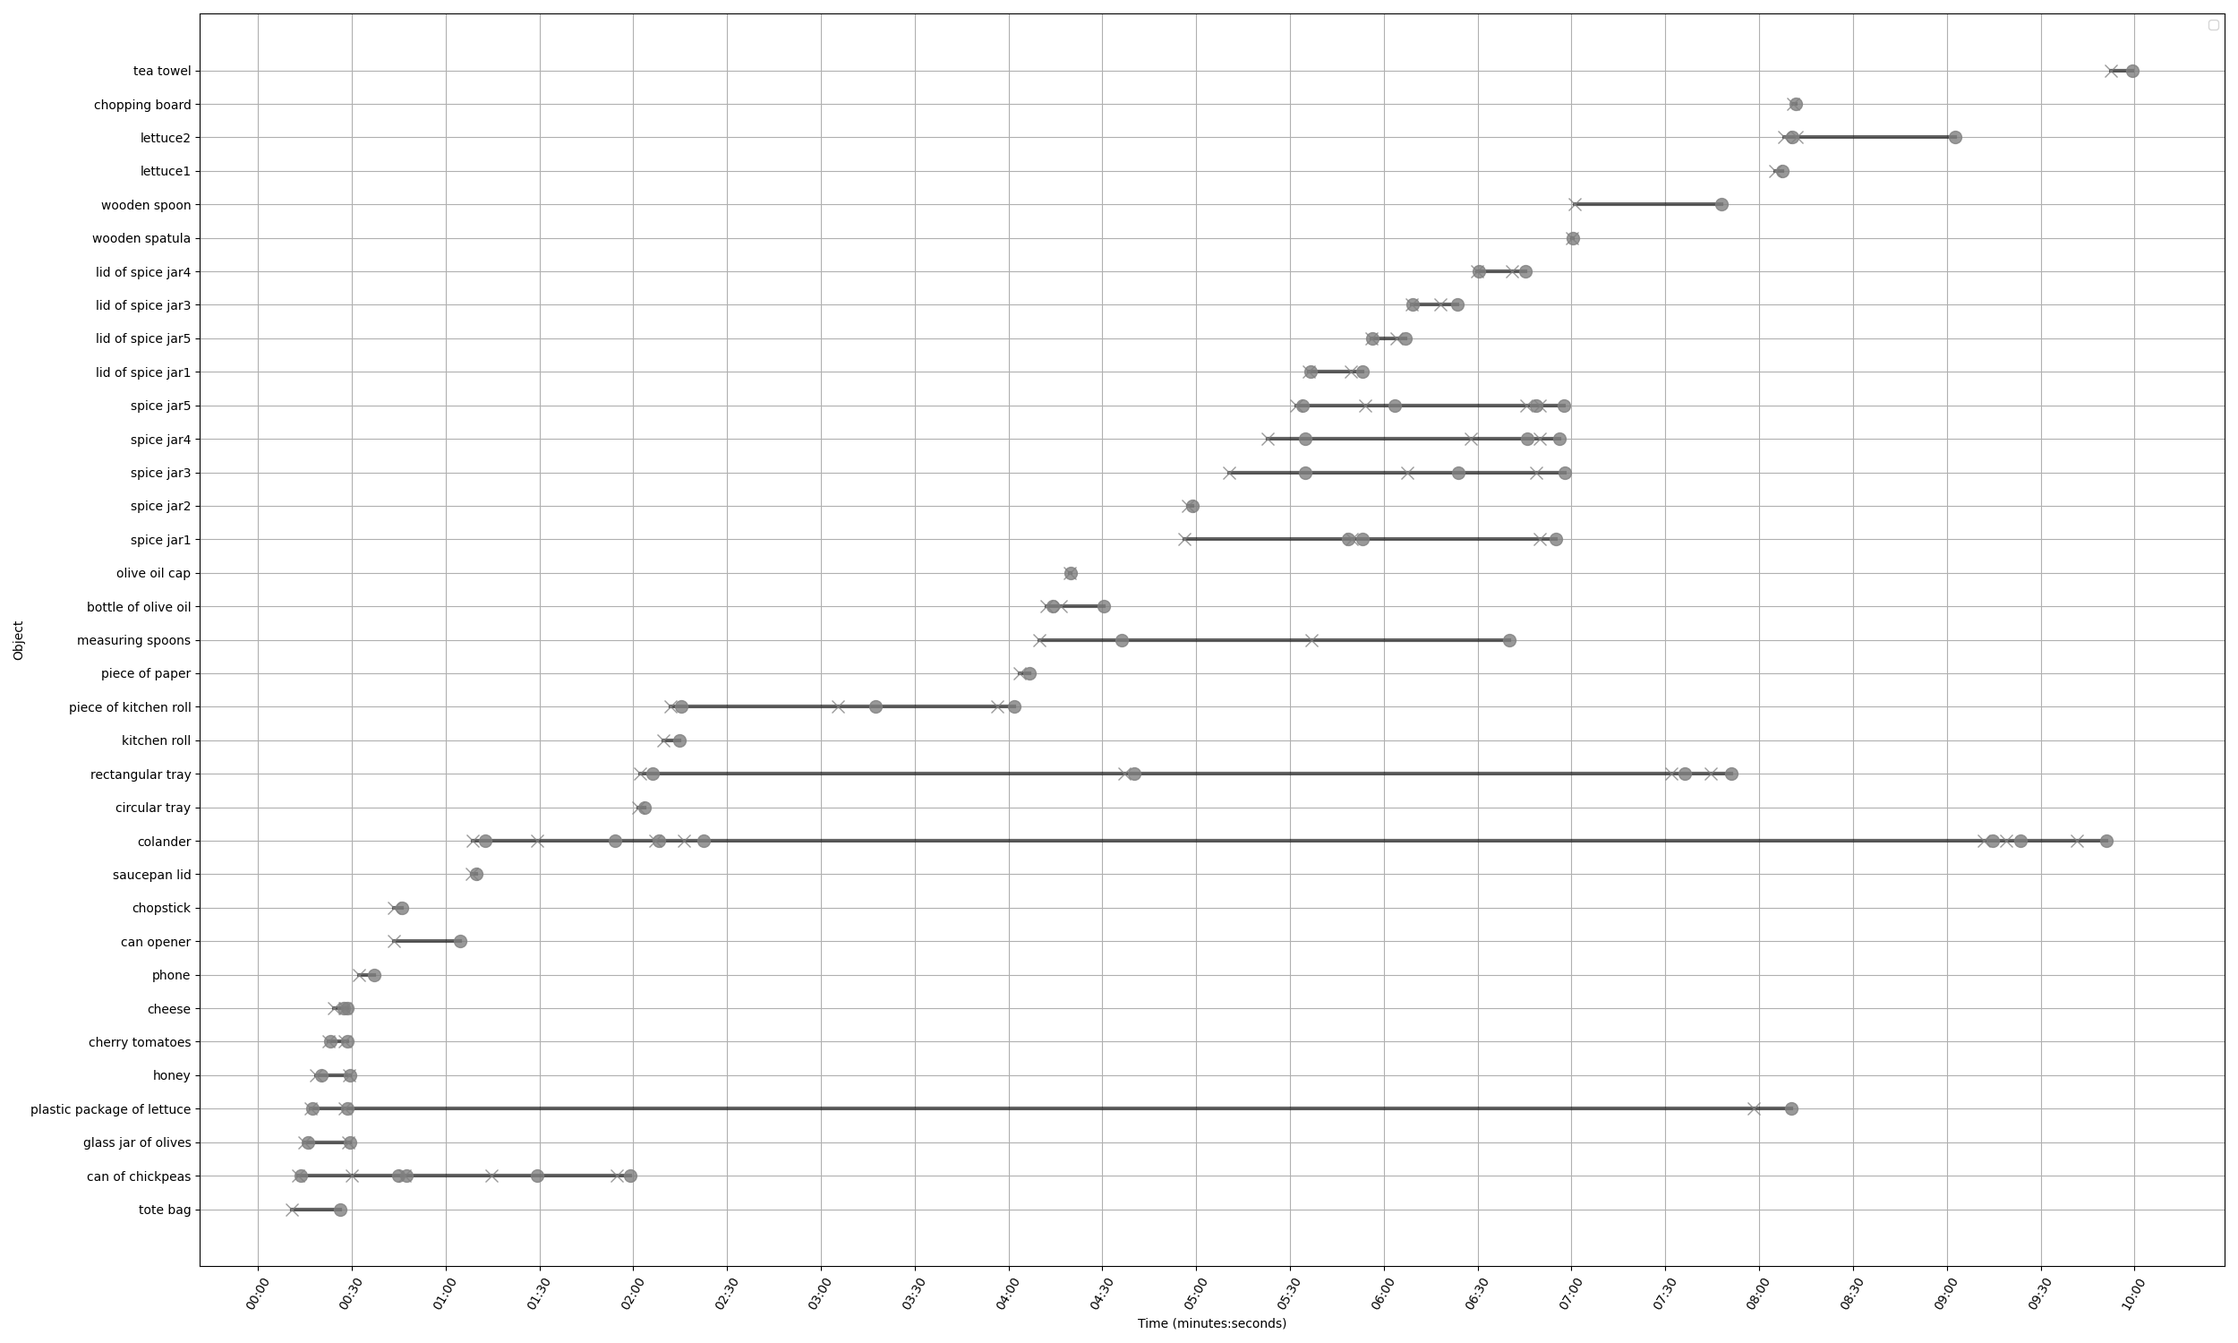
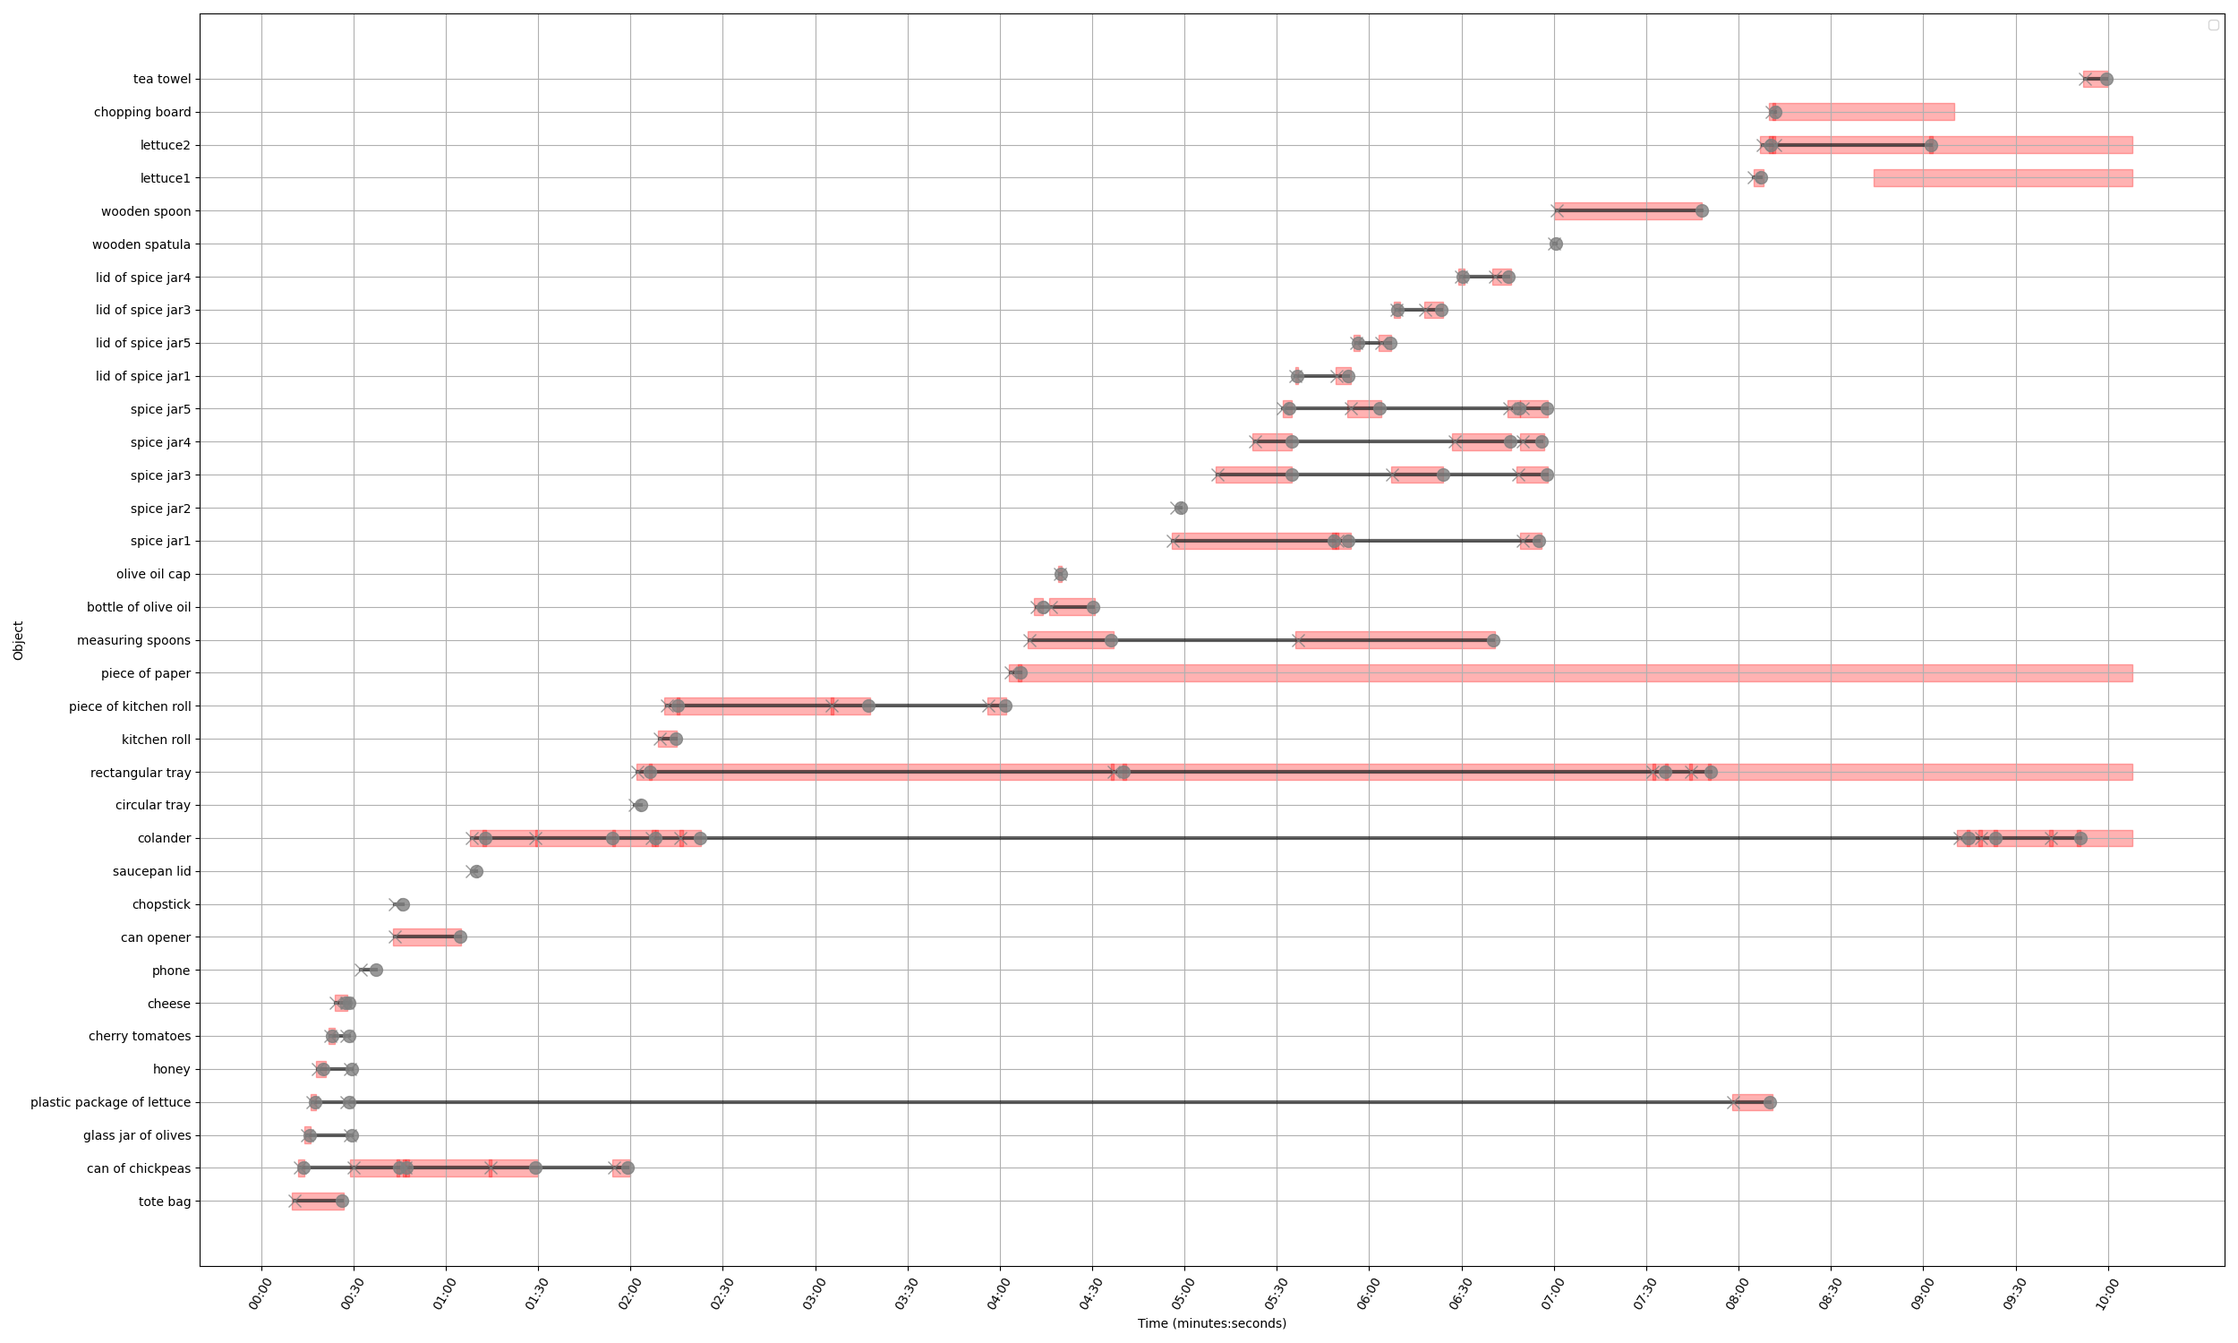
fix manual labeling, plot manual labels, script to save image filepaths and action narrations for annotation

diff --git a/save_user_prompts.py b/save_user_prompts.py
@@ -5,12 +5,15 @@ This is useful for generating new examples for the prompt system.
 """
 
 import os
-import sys
+import cv2
+import numpy as np
 import json
 import argparse
-sys.path.append(os.path.dirname(os.path.dirname(os.path.abspath(__file__))))
+import pickle as pkl
 from prompt_utils import generate_prompts_for_video, normalize_text, format_event_history, seconds_to_minutes_seconds
+import pandas as pd
 import pdb
+from math import floor, ceil
 
 
 def generate_user_prompt(entry, show_empty: bool = False):
@@ -56,6 +59,8 @@ def main():
                         help='Video ID to process (e.g., P01-20240202-171220)')
     parser.add_argument('--max_segment_length', type=int, default=120,
                         help='Maximum segment length in seconds (default: 120)')
+    parser.add_argument('--video_path', type=str, default=None,
+                        help='Path to the video file (default: None)')
     parser.add_argument('--long', action='store_true',
                         help='Use long mode prompts (with full scene graph)')
     parser.add_argument('--output_file', type=str, default=None,
@@ -71,17 +76,39 @@ def main():
     prompt_info_path = f"outputs/prompts/prompt_info_{args.video_id}_max_segment_length_{args.max_segment_length}{long_suffix}.json"
     generate_prompts_for_video(args.video_id, args.max_segment_length, long=args.long)
     print(f"Generated prompts saved to: {prompt_info_path}")
-    
+
+    # Load narrations
+    print("Loading narrations...")
+    with open("narrations-and-action-segments/HD_EPIC_Narrations.pkl", "rb") as f:
+        narrations_df = pkl.load(f)
+
     # Load prompt info
     with open(prompt_info_path, 'r', encoding='utf-8') as f:
         prompt_info = json.load(f)
+
+    ## Load video
+    cap = cv2.VideoCapture(args.video_path)
+    if not cap.isOpened():
+        raise ValueError(f"Could not open video: {args.video_path}")
+    
+    # Get video properties
+    fps = cap.get(cv2.CAP_PROP_FPS)
+    total_frames = int(cap.get(cv2.CAP_PROP_FRAME_COUNT))
     
     print(f"Found {len(prompt_info)} entries to process")
     
     show_empty = True if args.long else False
 
+    # Filter narrations for this video
+    video_narrations = narrations_df[
+        narrations_df['unique_narration_id'].str.startswith(args.video_id)
+    ].copy()
+
+    images_dir = os.path.join("images", args.video_id)
+
     # Generate all user prompts
     all_prompts = []
+    all_frame_nums = []
     for idx, entry in enumerate(prompt_info):
         object_name = entry['object_name']
         time_start = entry['time_start']
@@ -89,42 +116,81 @@ def main():
         segment_category = entry['segment_category']
         
         print(f"Processing entry {idx + 1}/{len(prompt_info)}: {object_name} ({time_start:.2f}s - {time_end:.2f}s) [{segment_category}]")
-        pdb.set_trace()
+        action_narrations = []
+        for _, row in video_narrations.iterrows():
+            start_ts = float(row['start_timestamp'])
+            end_ts = float(row['end_timestamp'])
+            
+            if not (start_ts > time_end or end_ts < time_start):
+                action_narrations.append({
+                    'narration': row['narration'] if pd.notna(row['narration']) else '',
+                    'start_timestamp': start_ts,
+                    'end_timestamp': end_ts
+                })
 
-        user_prompt = generate_user_prompt(entry, show_empty=show_empty)
-        
+        ## Sample images between time_start and time_end every 5 seconds
+        image_filepaths = []
+        num_samples = max(2, (ceil(time_end) - floor(time_start)) // 5)
+        image_time_steps = np.linspace(time_start, time_end, num_samples)
+        for image_time_step in image_time_steps:
+            frame_num = int(image_time_step * fps)
+            if frame_num not in all_frame_nums:
+                all_frame_nums.append(frame_num)
+            image_filepath = f"{images_dir}/image_{frame_num:06d}.png"
+            image_filepaths.append(image_filepath)
+
         prompt_entry = {
             "object_name": object_name,
             "time_start": time_start,
             "time_end": time_end,
             "segment_category": segment_category,
-            "prompt": user_prompt
+            "image_filepaths": image_filepaths,
+            "action_narrations": action_narrations,
         }
         
         all_prompts.append(prompt_entry)
-    
-    # Determine output file path
-    if args.output_file:
-        output_file = args.output_file
-    else:
-        output_dir = "outputs/prompts"
-        os.makedirs(output_dir, exist_ok=True)
-        output_file = os.path.join(output_dir, f"user_prompts_{args.video_id}_max_segment_length_{args.max_segment_length}{long_suffix}.jsonl")
 
-    # Write all the prompts in a text file
-    text_output_file = output_file.rsplit('.', 1)[0] + ".txt"
-    with open(text_output_file, 'w', encoding='utf-8') as text_f:
-        for prompt in all_prompts:
-            text_f.write(f"{prompt['object_name']} ({prompt['time_start']:.2f}s - {prompt['time_end']:.2f}s) [{prompt['segment_category']}]\n<{prompt['prompt']}>\n\n")
-    print(f"Also saved plain text prompts to {text_output_file}")
+    with open(f"outputs/prompts/prompt_dict{args.video_id}_max_segment_length_{args.max_segment_length}{long_suffix}.json", "w") as f:
+        json.dump(all_prompts, f, indent=1)
+
+    # Save all sampled frames in all_frame_nums in the images folder, resized to 360x480
+    os.makedirs(images_dir, exist_ok=True)
+    for frame_num in sorted(set(all_frame_nums)):
+        cap.set(cv2.CAP_PROP_POS_FRAMES, frame_num)
+        ret, frame = cap.read()
+        if not ret:
+            print(f"Warning: Could not read frame {frame_num} from video.")
+            continue
+        # Resize to 360x480 (width x height). OpenCV uses (width, height)
+        resized = cv2.resize(frame, (360, 480))
+        img_path = os.path.join(images_dir, f"image_{frame_num:06d}.png")
+        cv2.imwrite(img_path, resized)
     
-    # Save all prompts
-    print(f"\nSaving {len(all_prompts)} prompts to: {output_file}")
-    with open(output_file, 'w', encoding='utf-8') as f:
-        for prompt in all_prompts:
-            f.write(json.dumps(prompt, ensure_ascii=False) + "\n")
+    cap.release()
+    print(f"Saved {len(set(all_frame_nums))} frames (resized) to {images_dir}")
+
+    # # Determine output file path
+    # if args.output_file:
+    #     output_file = args.output_file
+    # else:
+    #     output_dir = "outputs/prompts"
+    #     os.makedirs(output_dir, exist_ok=True)
+    #     output_file = os.path.join(output_dir, f"user_prompts_{args.video_id}_max_segment_length_{args.max_segment_length}{long_suffix}.jsonl")
+
+    # # Write all the prompts in a text file
+    # text_output_file = output_file.rsplit('.', 1)[0] + ".txt"
+    # with open(text_output_file, 'w', encoding='utf-8') as text_f:
+    #     for prompt in all_prompts:
+    #         text_f.write(f"{prompt['object_name']} ({prompt['time_start']:.2f}s - {prompt['time_end']:.2f}s) [{prompt['segment_category']}]\n<{prompt['prompt']}>\n\n")
+    # print(f"Also saved plain text prompts to {text_output_file}")
     
-    print(f"Successfully saved all prompts to {output_file}")
+    # # Save all prompts
+    # print(f"\nSaving {len(all_prompts)} prompts to: {output_file}")
+    # with open(output_file, 'w', encoding='utf-8') as f:
+    #     for prompt in all_prompts:
+    #         f.write(json.dumps(prompt, ensure_ascii=False) + "\n")
+    
+    # print(f"Successfully saved all prompts to {output_file}")
 
 
 if __name__ == "__main__":

diff --git a/process_all_object_labels.py b/process_all_object_labels.py
@@ -1,4 +1,5 @@
 import os
+import glob
 import json
 import pickle
 import matplotlib.pyplot as plt
@@ -47,74 +48,17 @@ def plot_object_usage_segments(object_labels_array, axis, all_object_labels):
     for object_label in object_labels_array:
         if object_label["object_name"] not in all_object_labels:
             continue
-        if object_label.get("is_used") is None:
-            print(f"WARNING: Object {object_label['object_name']} has invalid usage label between {object_label['time_start']} and {object_label['time_end']}")
-            # pdb.set_trace()
-            continue
-        elif object_label["is_used"] == False: ## Skip if object was not used
-            continue
         y_position = all_object_labels.index(object_label["object_name"])
-        verbose_print(f"Object {object_label['object_name']} used between {object_label['time_start']} and {object_label['time_end']}")
-        axis.fill_betweenx(
-            [y_position - BAR_WIDTH/2, y_position + BAR_WIDTH/2],
-            object_label["time_start"],
-            object_label["time_end"],
-            color="red",
-            alpha=0.3,
-        )
-
-
-def combine_object_labels_from_usage_labels(object_usage_labels: [dict], scene_graphs: [dict], mask_fixtures: dict) -> dict:
-    """
-    Process object_usage_labels jsonl entries to create object_labels_array.
-    Includes all entries regardless of is_used status.
-    Uses scene graphs instead of event_history to extract mask_frame_ids.
-    """
-    object_labels_array = []
-    
-    for i, usage_label in enumerate(object_usage_labels):
-        if i % 10 == 0:
-            print(f"[Getting inuse segments] Processing usage label {i} of {len(object_usage_labels)}")
-        
-        object_name = usage_label["object_name"]
-        start_timestamp = usage_label["time_start"]
-        end_timestamp = usage_label["time_end"]
-        
-        # Filter scene graphs for this object and time range
-        scene_graphs_trimmed = [
-            sg for sg in scene_graphs
-            if sg.get("object_name") == object_name
-            and sg.get("time") is not None
-            and start_timestamp <= sg["time"] <= end_timestamp
-            and sg.get("action") != "INITIAL"  # Skip INITIAL entries
-        ]
-        
-        mask_frame_ids = []
-        for scene_graph in scene_graphs_trimmed:
-            mask_id = scene_graph.get("mask_id")
-            if mask_id is None:
-                continue
-            
-            frame_number = mask_fixtures[mask_id]["frame_number"] if mask_id in mask_fixtures else None
-            mask_bbox = mask_fixtures[mask_id]["bbox"] if mask_id in mask_fixtures else None
-            mask_frame_ids.append({
-                "time": scene_graph["time"],
-                "action_type": scene_graph["action"],
-                "mask_id": mask_id,
-                "frame_number": frame_number,
-                "mask_bbox": mask_bbox,
-            })
-        
-        object_labels_array.append({
-            "object_name": object_name,
-            "time_start": start_timestamp,
-            "time_end": end_timestamp,
-            "is_used": usage_label.get("llm_response_json", {}).get("is_used", None),
-            "_explanation": usage_label.get("llm_response_json").get("explanation"),
-            "mask_frame_ids": mask_frame_ids,
-        })
-    
-    return object_labels_array
+        usage_label = object_label["annotation"].lower()
+        if usage_label == "used":
+            verbose_print(f"Object {object_label['object_name']} used between {object_label['time_start']} and {object_label['time_end']}")
+            axis.fill_betweenx(
+                [y_position - BAR_WIDTH/2, y_position + BAR_WIDTH/2],
+                object_label["time_start"],
+                object_label["time_end"],
+                color="red",
+                alpha=0.3,
+            )
 
 
 def main():
@@ -151,28 +95,14 @@ def main():
         )
 
     # Read object usage labels from jsonl file
-    object_usage_labels_path = f"{args.object_usage_labels_folder}/object_usage_labels_{args.video_id}.jsonl"
-    if os.path.exists(object_usage_labels_path):
-        print(f"Reading object usage labels from {object_usage_labels_path}")
-
-        with open(object_usage_labels_path, "r") as f:
-            object_usage_labels = [json.loads(line) for line in f]
-
-        # Read scene graphs from jsonl file
-        scene_graphs_path = f"outputs/scene_graphs/scene_graphs_{args.video_id}.jsonl"
-        if not os.path.exists(scene_graphs_path):
-            raise FileNotFoundError(f"Scene graphs file not found: {scene_graphs_path}")
-        
-        with open(scene_graphs_path, "r") as f:
-            scene_graphs = [json.loads(line) for line in f]
-
-        try:    
-            object_labels_array = combine_object_labels_from_usage_labels(object_usage_labels, scene_graphs, mask_fixtures)
-        except Exception as e:
-            print(f"Error returning inuse segments per object: {e}")
-            pdb.set_trace()
-
-        plot_object_usage_segments(object_labels_array, ax, all_object_labels)
+    usage_dir = "manual_usage_annotations"
+    annotation_files = glob.glob(os.path.join(usage_dir, "usage_labels_manual-FILE*.json"))
+    if annotation_files:
+        label_filepath = max(annotation_files, key=os.path.getmtime)
+        with open(label_filepath, "r") as f:
+            object_usage_annotations = json.load(f)
+        if args.video_id in object_usage_annotations:
+            plot_object_usage_segments(object_usage_annotations[args.video_id]["labels"], ax, all_object_labels)
 
     else:
         print(f"No object usage labels found for video_id: {args.video_id}")

diff --git a/label_object_usage_manual.py b/label_object_usage_manual.py
@@ -18,10 +18,11 @@ with open(annotation_filepath, "r") as f:
 
 label_filepath = f"manual_usage_annotations/usage_labels_manual-FILE{timestamp_annotation}.json"
 object_usage_annotations = {}
-if os.path.exists(label_filepath):
-    print(f"Loading existing object usage annotations from {label_filepath}")
-    with open(label_filepath, "r") as f:
-        object_usage_annotations = json.load(f)
+## TODO: Resume does not work after allowing custom end time.
+# if os.path.exists(label_filepath):
+#     print(f"Loading existing object usage annotations from {label_filepath}")
+#     with open(label_filepath, "r") as f:
+#         object_usage_annotations = json.load(f)
 
 video_ids = list(annotation_segments.keys())
 
@@ -42,9 +43,9 @@ for video_id in video_ids:
     for segment in time_segments:
         ## Skip if object annotation already exists
         ## TODO: Resume does not work after allowing custom end time.
-        if any(annotation["object_name"] == segment[3] and annotation["time_start"] == floor(segment[0]) and annotation["time_end"] == ceil(segment[1]) for annotation in object_usage_annotations[video_id]["labels"]):
-            print(f"Object {segment[3]} already annotated between {seconds_to_minutes_seconds(segment[0])} and {seconds_to_minutes_seconds(segment[1])}, skipping...")
-            continue
+        # if any(annotation["object_name"] == segment[3] and annotation["time_start"] == floor(segment[0]) and annotation["time_end"] == ceil(segment[1]) for annotation in object_usage_annotations[video_id]["labels"]):
+        #     print(f"Object {segment[3]} already annotated between {seconds_to_minutes_seconds(segment[0])} and {seconds_to_minutes_seconds(segment[1])}, skipping...")
+        #     continue
         if segment[3].startswith("Track"):
             continue
         if segment[3] in object_usage_annotations[video_id]["objects_ignore"]:
@@ -96,6 +97,8 @@ for video_id in video_ids:
                 )
                 time_segments.append(new_segment)
                 ## TODO: Update annotation segments file as well
+            else:
+                end_time_custom = segment_end
         if annotation == "i":
             object_usage_annotations[video_id]["objects_ignore"].append(segment[3])
             continue

diff --git a/prompt_utils.py b/prompt_utils.py
@@ -2,9 +2,8 @@ import os
 import json
 import unicodedata
 import re
-from utils import seconds_to_minutes_seconds
 from copy import deepcopy
-
+from utils import seconds_to_minutes_seconds
 
 def format_scene_graph(scene_graph: dict, show_empty: bool = False) -> str:
     """Format a scene graph dictionary into a human-readable string."""
